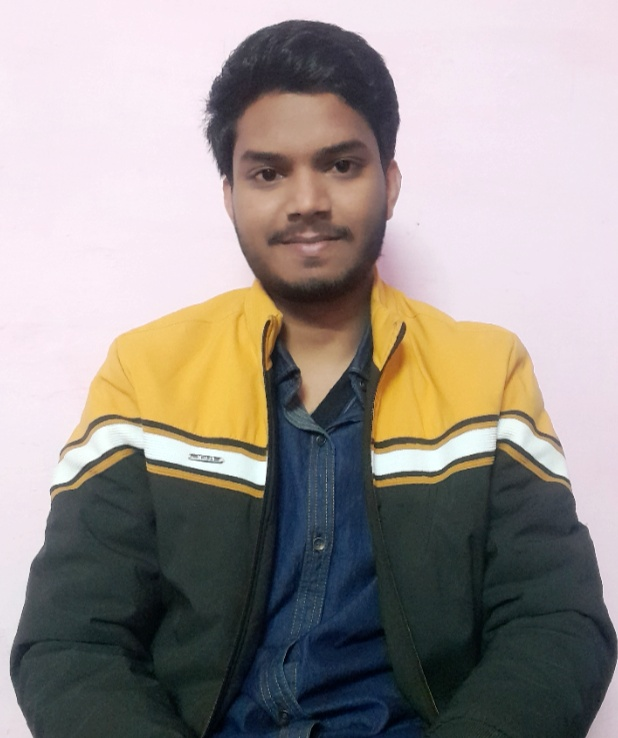
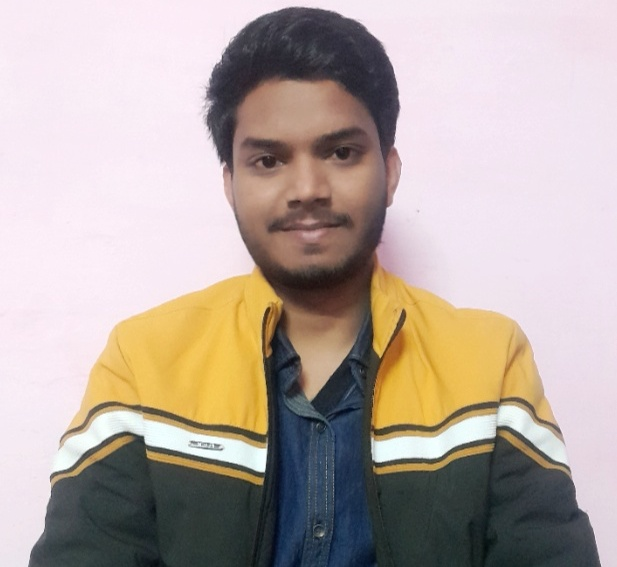
Updated the Photo Dimensions of all candidates

diff --git a/index.html b/index.html
@@ -988,7 +988,7 @@
         <header class="section-header">
           <h3 class="section-title">Senate Candidates</h3>
         </header>
-        <p style="font-size: 25px; text-align: center;"><a href="./senators.html">Click here to view all Senators</a>.</p>
+        <p style="font-size: 25px; text-align: center;"><a href="./senators.html">Click here to view</a>.</p>
       </div>
     </section><!-- End Portfolio Section -->
     

diff --git a/senators.html b/senators.html
@@ -454,7 +454,7 @@
                     src="assets/img/senators19/siddharthgupta.jpg"
                     class="img-fluid"
                     alt=""
-                    style="height: 150%; width: 100%"
+                    style="height: 100%; width: 100%"
                   />
                   <a
                     href="candidates/Senators/Y19/siddharthgupta.html"
